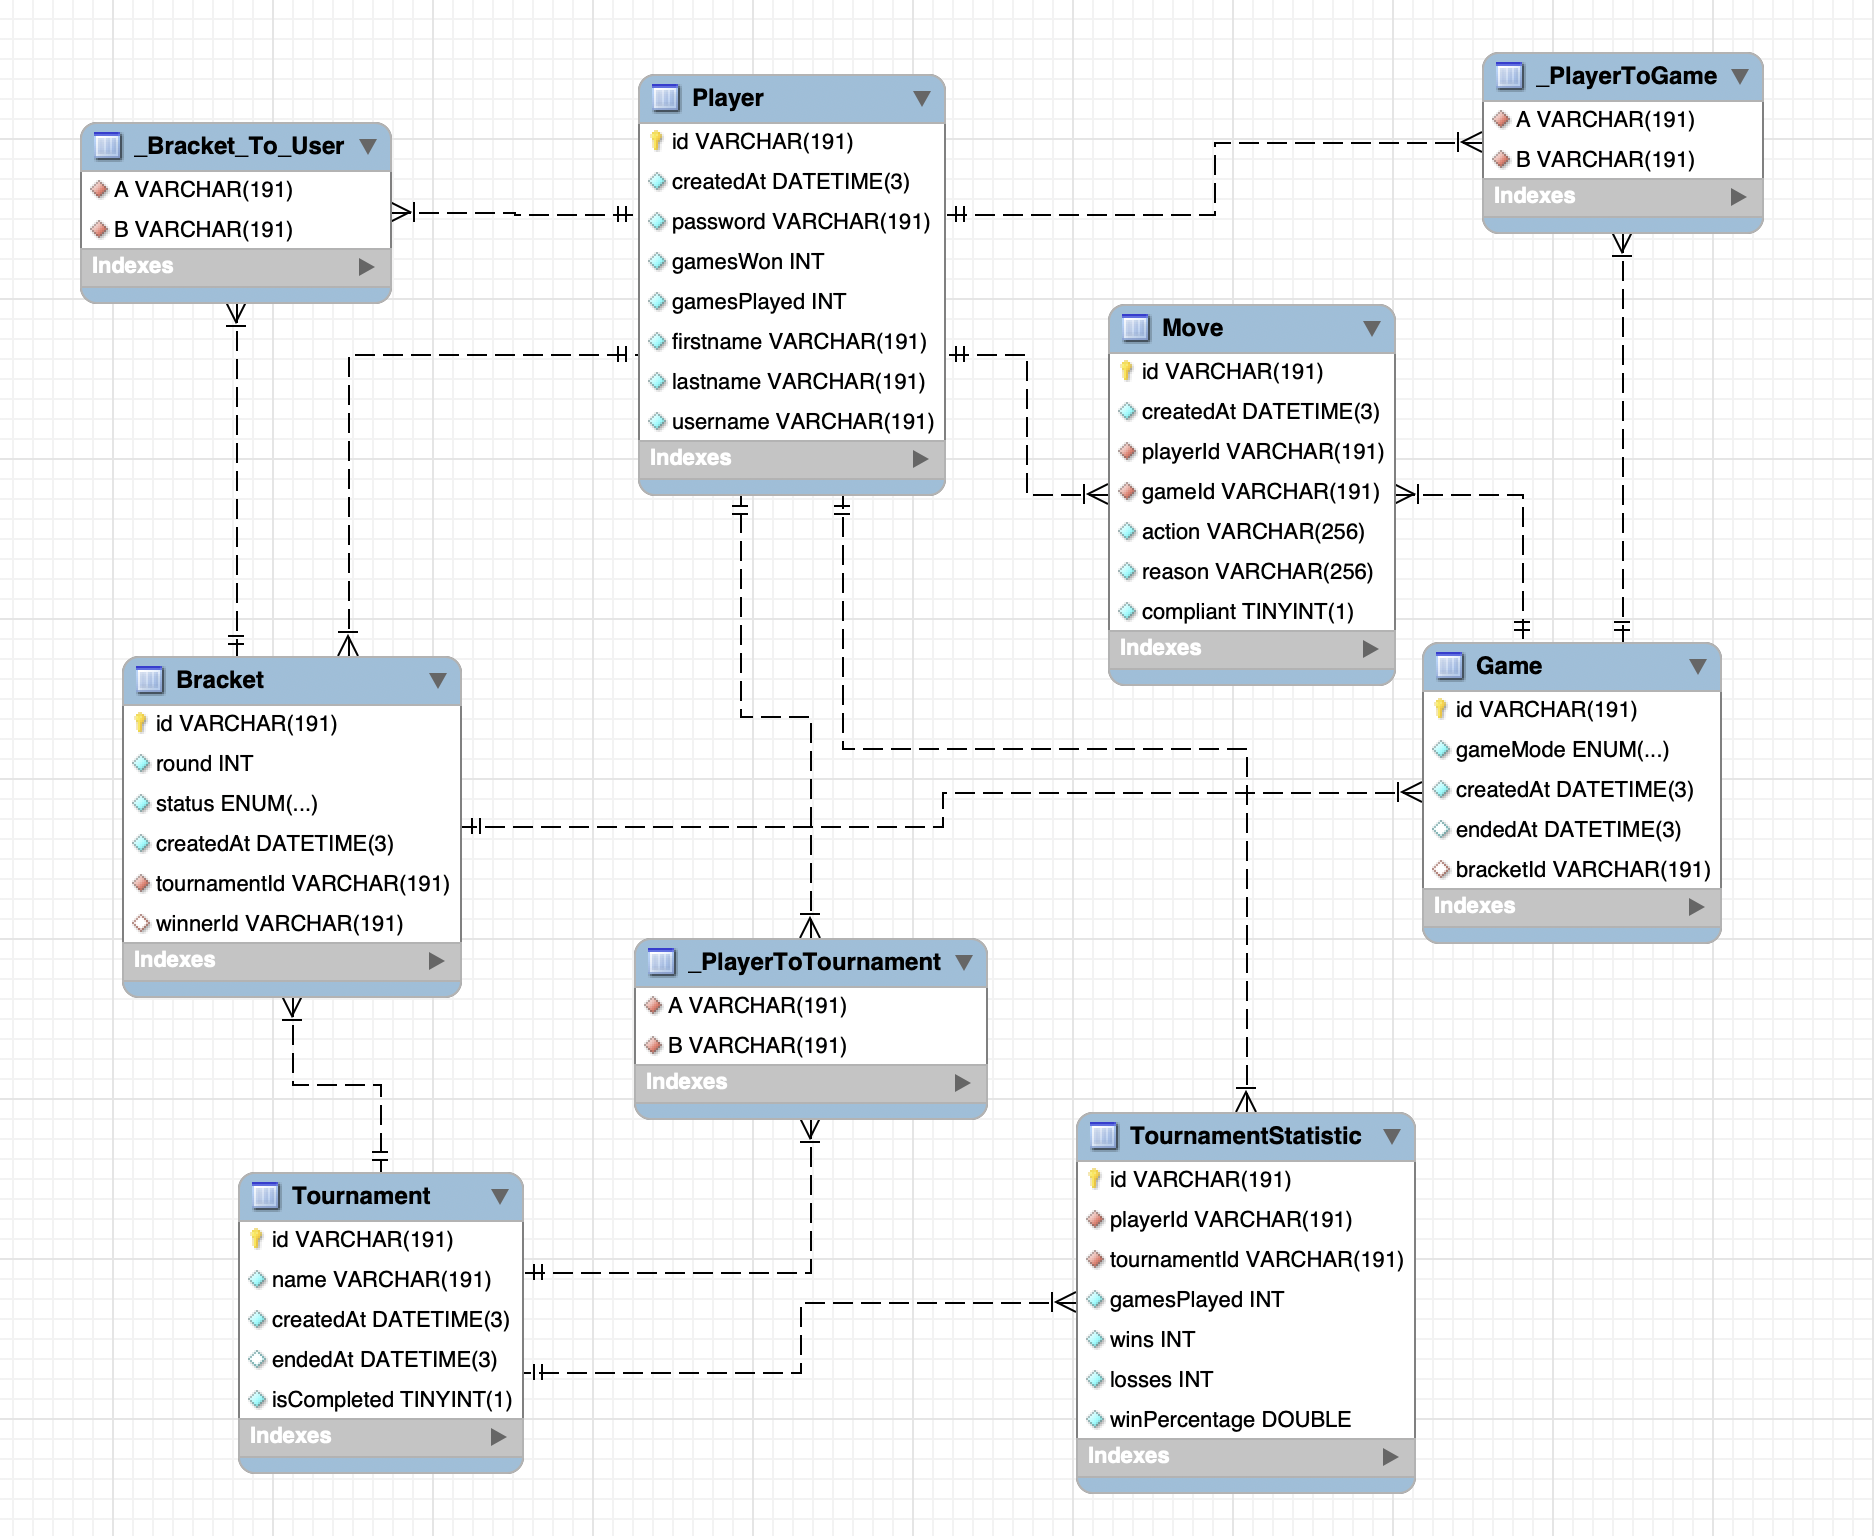
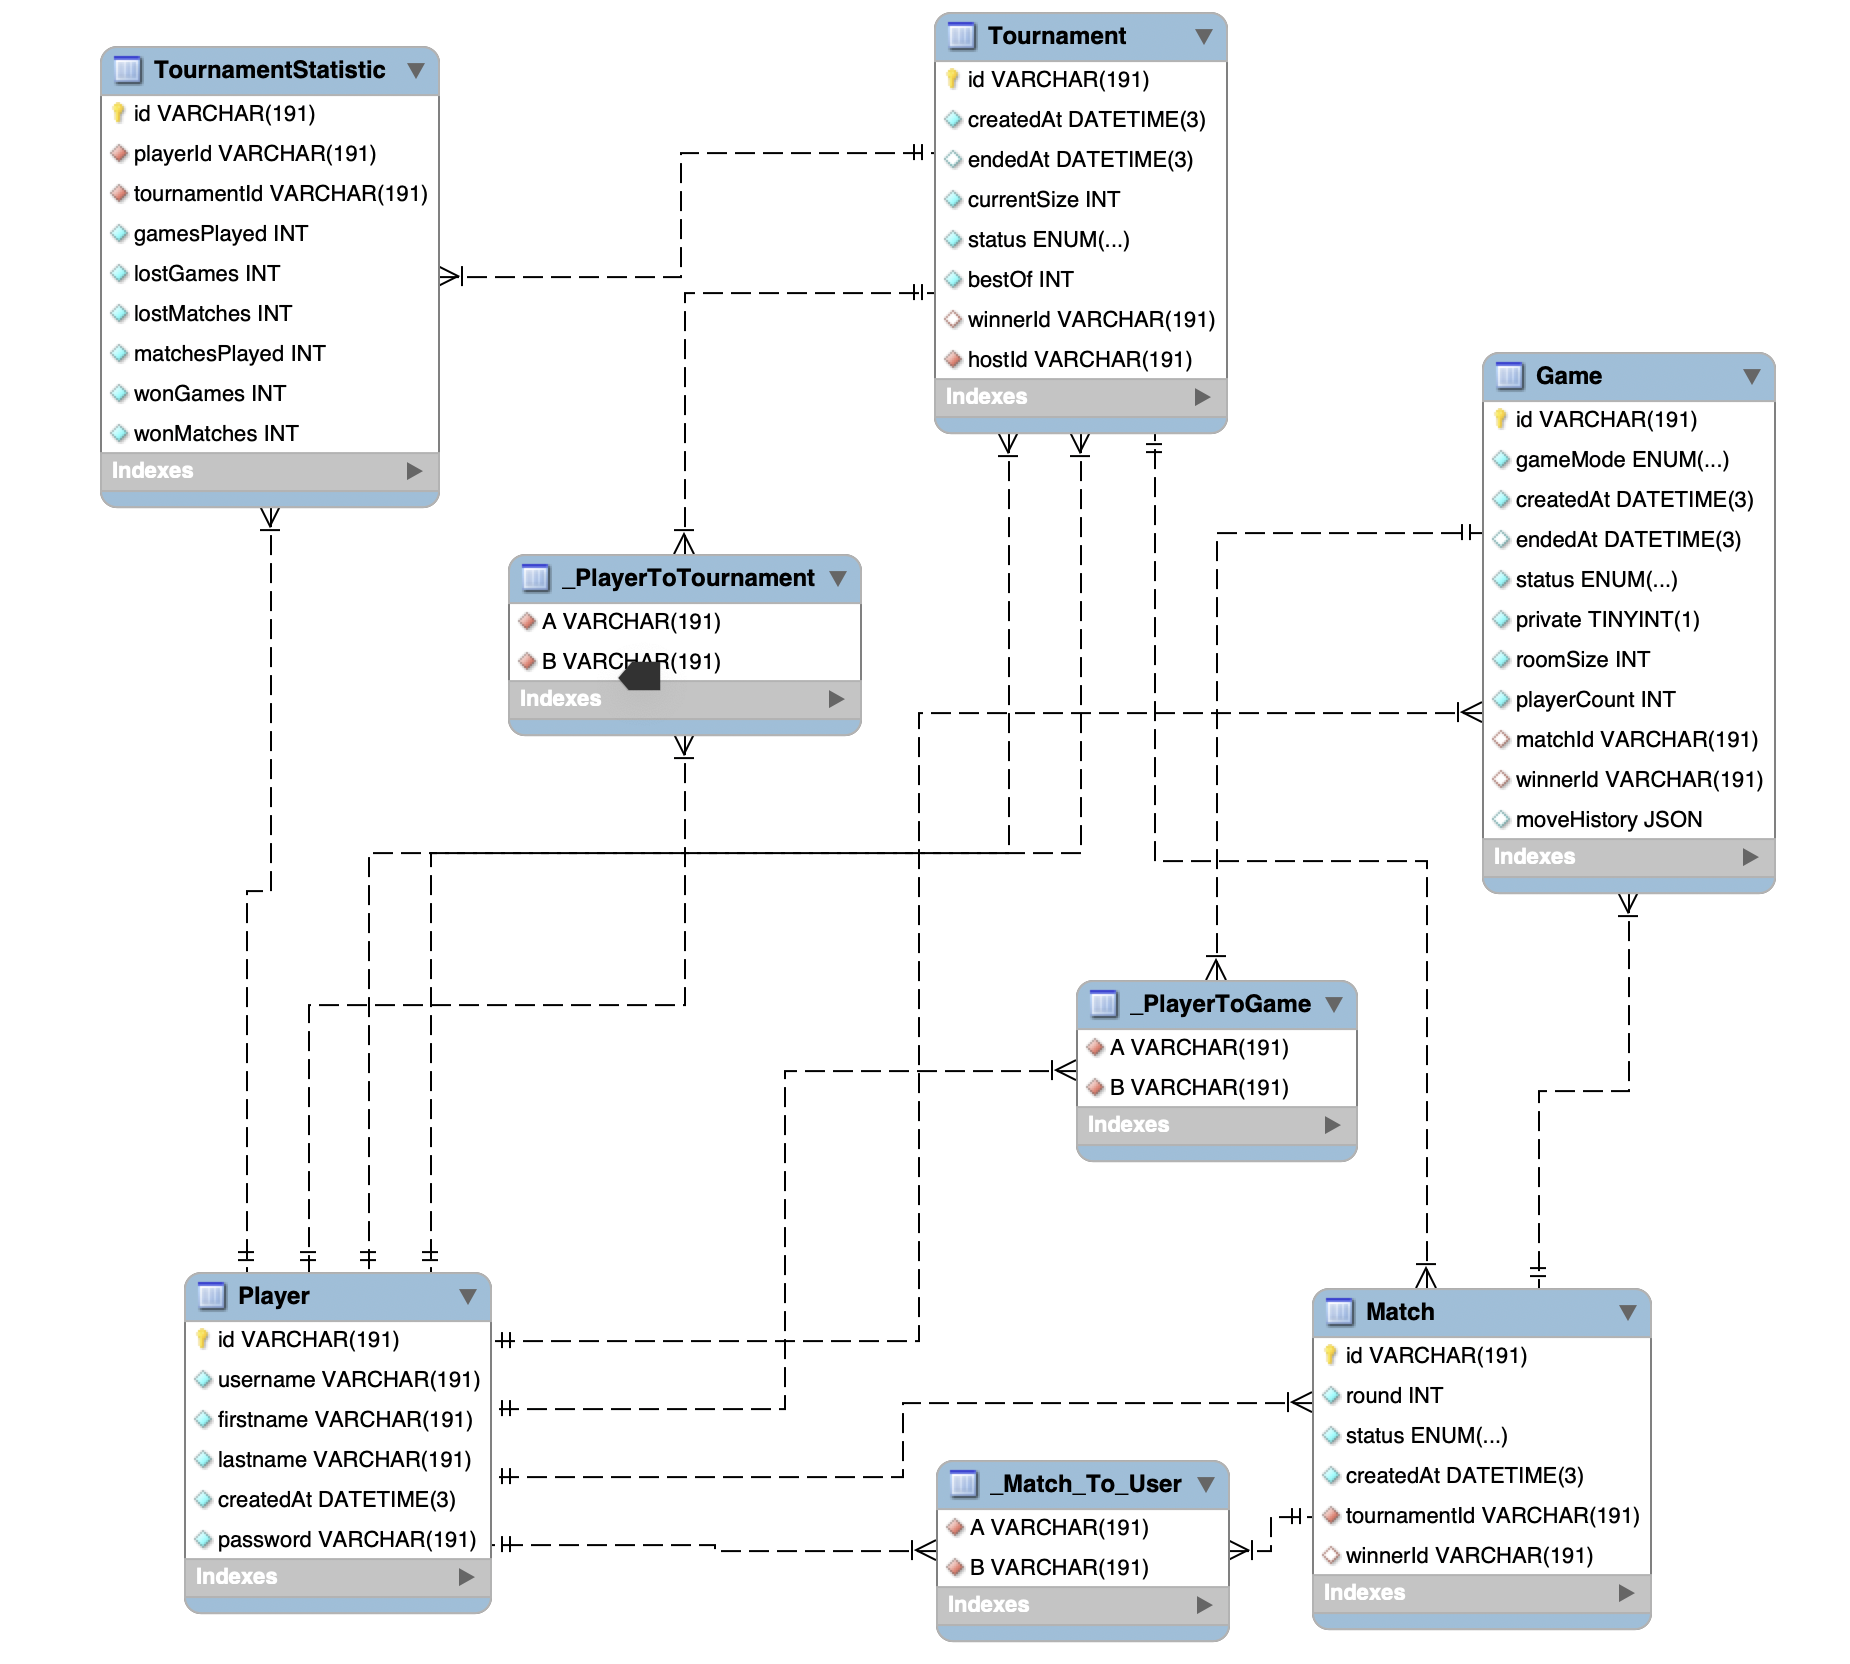
docs: updated Readme.md, and added changelog.md
Updated ERD and env vars in Readme.md and added and updated Changelog.md for the new release

closes #37 and closes #40

diff --git a/Changelog.md b/Changelog.md
@@ -1,0 +1,105 @@
+# Changelog 26.04.2023
+
+---
+
+## Added
+
+### Rest API
+
+`POST /api/verify-token` ist ein neuer Endpoint damit die Frontends checken können ob deren Zugangtokens gültig sind
+
+### Socket.io
+
+#### Client -> Server
+
+`tournament:create` Erstellt ein neues Tunier
+
+`tournament:join` Lässt ein Spieler ein Tunier beitreten
+
+`tournament:leave` Lässt ein Spieler ein Tunier verlassen
+
+#### Server -> Client
+
+`list:tournaments` Liste aller verfügbaren Tuniere
+
+`tournament:playerInfo` Informiert Spieler in Tunieren wenn andere Spieler beitreten oder es verlassen
+
+`tournament:info` Informiert über andere Dinge im Tunier
+
+---
+
+## Updated
+
+### Rest API
+
+`POST /api/auth/login` gibt nun auch bei erfolgreichen login ein user object zurück
+
+### Socket.io
+
+---
+
+## Removed
+
+### Rest API
+
+### Socket.io
+
+<!------------------------------------------------>
+
+# Changelog 11.05.2023
+
+---
+
+## Added
+
+- Matchmaking Algorithmus
+- Match Logic
+- Spielelogik (nur mit Farbkarten)
+
+### Rest API
+
+### Socket.io
+
+#### Client -> Server
+
+`tournament:start` Lässt den Host des Tunieres das Tunier starten. Somit werden auch die Spieler in Matches verteilt um gegeneinander zu spielen
+
+#### Server -> Client
+
+`match:invite` Schickt Spielern bei Tunierstart Match Einladungen die man per Acknowledment annehmen kann
+
+`match:info` Schickt Spielern Updated zu ihren aktuellen Match in dem sie sich befinden
+
+`game:makeMove` Fordert Spieler (die sich in einen Spiel befinden) auf einen Zug zu machen und diesen per Acknowledgment in 10 Sekunden an den Server zu schicken
+
+`game:state` Schickt den aktuellen Zustand des Spieles an die Spieler die sich in einen Spiel befinden
+
+`game:status` Schickt den Spielern die ein Spiel gegeneinander Spielen Infos zu Beginn und Ende des Spiels
+
+---
+
+## Updated
+
+### Rest API
+
+### Socket.io
+
+#### Client -> Server
+
+#### Server -> Client
+
+- `tournament:info` gibt nun den richtigen Payload zurück
+
+---
+
+## Removed
+
+### Rest API
+
+### Socket.io
+
+#### Client -> Server
+
+#### Server -> Client
+
+- `tournament:status` wurde durch `tournament:info` ersetzt

diff --git a/README-EN.md b/README-EN.md
@@ -92,8 +92,10 @@ POST /v1/verify-email/:token - Verify email
 ├── src
 │   ├── config      # Config Files
 │   ├── controller  # Controllers
+│   ├── error       # Custom Error Classes
 │   ├── interfaces  # Typescript Interfaces
 │   ├── middleware  # Custom Middleware
+│   ├── model       # Models
 │   ├── routes      # Routes
 │   ├── service     # Services
 │   ├── socket      # Websocket specific Code
@@ -128,13 +130,23 @@ If you're interested in the structure of our database, you can take a look at th
 To run this project, you will need to add the following environment variables to your .env file
 
 ```yml
+# App's running environment
+# Possible values: test, production, development
+NODE_ENV=
+
 # App's running port
 PORT=
+
+HOST=
 
 # Cors origin url
 # Example: https://example.com or for multiple origins
 # https://example.com|https://example2.com|https://example3.com or simple * to allow all origins
 CORS_ORIGIN=
+
+# Run node -e "console.log(require('crypto').randomBytes(256).toString('base64'));" in your console to generate a secret
+ACCESS_TOKEN_SECRET=
+ACCESS_TOKEN_EXPIRE=
 
 # database name
 MYSQL_DATABASE=
